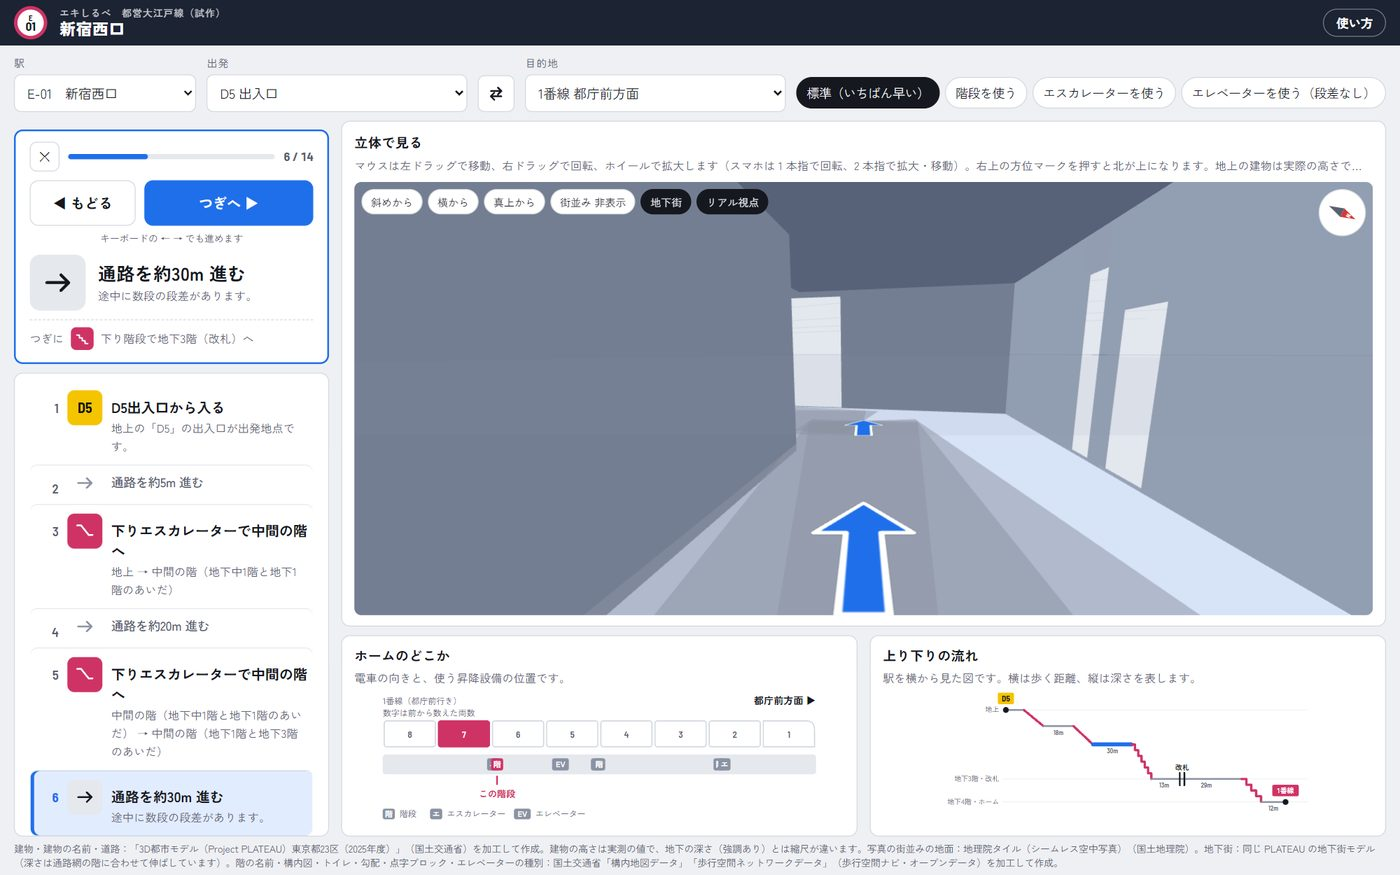
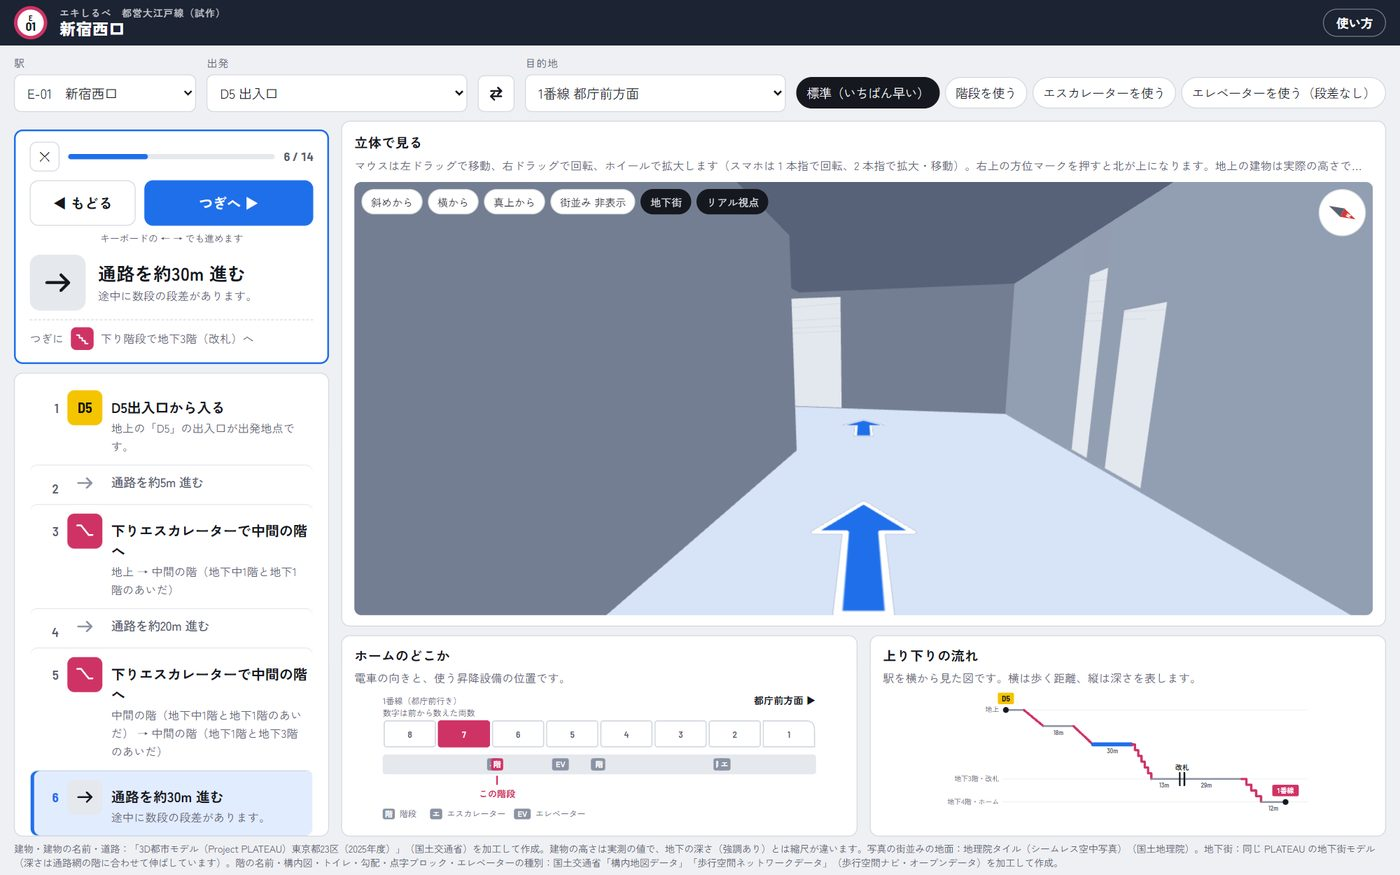
リアル視点の床を不透明に、線を出さない

Changed region(s): [[0.43, 0.4629, 0.86, 0.7097]]

diff --git a/index.html b/index.html
@@ -1755,14 +1755,14 @@ var View3D = (function () {
     });
     Object.keys(vert).forEach(function (key) {
       var m = ribbonMesh(vert[key], cMuted, 0.55);
-      m.userData.base = 0.55; m.userData.lv = key.split(':').map(Number); netMeshes.push(m); scene.add(m); vertObjs.push(m);
+      m.userData.base = 0.55; m.userData.lv = key.split(':').map(Number); m.userData.net = true; netMeshes.push(m); scene.add(m); vertObjs.push(m);
     });
     shaftSegs.forEach(function (s) {
       if (cells && coveredBy(cells, [0.15, 0.5, 0.85].map(function (t) { return s[0].clone().lerp(s[1], t); }))) return;
       var h = Math.abs(s[0].y - s[1].y);
       var m = new THREE.Mesh(new THREE.BoxGeometry(2.4, h, 2.4), new THREE.MeshBasicMaterial({ color: cMuted, transparent: true, opacity: 0.28, depthWrite: false }));
       m.position.set((s[0].x + s[1].x) / 2, (s[0].y + s[1].y) / 2, (s[0].z + s[1].z) / 2);
-      m.userData.base = 0.28; m.userData.lv = [s[2], s[3]]; netMeshes.push(m); scene.add(m); vertObjs.push(m);
+      m.userData.base = 0.28; m.userData.lv = [s[2], s[3]]; m.userData.net = true; netMeshes.push(m); scene.add(m); vertObjs.push(m);
     });
   }
   function ubldCells(grp) {
@@ -1830,11 +1830,13 @@ var View3D = (function () {
       var lv = Number(key.split('|')[0]), s = STYLE[key.split('|')[1]];
       var m = ribbonMesh(fills[key], s[0], s[1]);
       m.renderOrder = -1; m.userData.base = s[1]; m.userData.lv = [lv, lv]; m.userData.space = true; netMeshes.push(m); scene.add(m); spaceObjs.push(m);
+      var kd = key.split('|')[1];
+      m.userData.color = s[0]; m.userData.fpvColor = kd === 'wt' ? '#cbd6ea' : kd === 'w' || kd === 't' ? '#d9dde4' : '#b9c0cb'; // リアル視点の不透明な床の色
     });
     Object.keys(lines).forEach(function (lv) {
       var geo = new THREE.BufferGeometry(); geo.setAttribute('position', new THREE.Float32BufferAttribute(lines[lv], 3));
       var m = new THREE.LineSegments(geo, new THREE.LineBasicMaterial({ color: cMuted, transparent: true, opacity: 0.5, depthWrite: false }));
-      m.userData.base = 0.5; m.userData.lv = [Number(lv), Number(lv)]; m.userData.space = true; netMeshes.push(m); scene.add(m); spaceObjs.push(m);
+      m.userData.base = 0.5; m.userData.lv = [Number(lv), Number(lv)]; m.userData.space = true; m.userData.outline = true; netMeshes.push(m); scene.add(m); spaceObjs.push(m);
     });
   }
   function setSpaces(on) {
@@ -2103,7 +2105,7 @@ var View3D = (function () {
     });
     Object.keys(pass).forEach(function (key) {
       var m = ribbonMesh(pass[key], cWalk, 0.32);
-      m.userData.base = 0.32; m.userData.lv = key.split(':').map(Number); netMeshes.push(m); scene.add(m);
+      m.userData.base = 0.32; m.userData.lv = key.split(':').map(Number); m.userData.net = true; netMeshes.push(m); scene.add(m);
     });
     shaftSegs = shafts;
     drawVert(null);
@@ -2410,9 +2412,14 @@ var View3D = (function () {
         else if (u.city === 'ubld') b = fpv ? 1 : 0.12; // 地下街は案内中も、地下の空間の手がかりとして薄く残す（中から見るときは透明にしない）
         else b = (u.city === 'road' && sel.hi > -0.01) ? b * 0.35 : 0; // 写真の街並み（建物・航空写真）は案内中はすべて消す
       }
-      // リアル視点では、構内図の床は地下街のような薄い半透明に（案内中の階を濃くする処理もかけない）。斜めから見ると重なって、
-      // 地下街の床を覆う濃い青に見えていた（2026-10-09 利用者「リアル視点で案内中は、構内図の床は半透明にできる？地下街のように表示してほしい」）
-      if (u.space && fpv) b = u.base * 0.4;
+      // リアル視点では、構内図の床は不透明な床に（地下街の床に近い明るい色。2026-10-09 利用者「リアル視点で案内中の構内図の床が半透明に
+      // なってる。不透明がいいな」。前は半透明: 「地下街のように表示してほしい」）。輪郭の線と、通路網の線（GTFS-Pathways の通路・階段・
+      // エレベーター）は出さない（利用者「リアル案内中の床にパスの線が見えるけど、これは非表示にできる？」）
+      if (u.space && !u.outline && u.fpvMat !== fpv) {
+        m.material.color.set(fpv ? u.fpvColor : u.color); m.material.transparent = !fpv; m.material.depthWrite = fpv; m.material.needsUpdate = true; u.fpvMat = fpv;
+      }
+      if (fpv && u.space) b = u.outline ? 0 : 1;
+      if (fpv && u.net) b = 0;
       m.material.opacity = b;
       m.visible = b > 0.003;
     });
